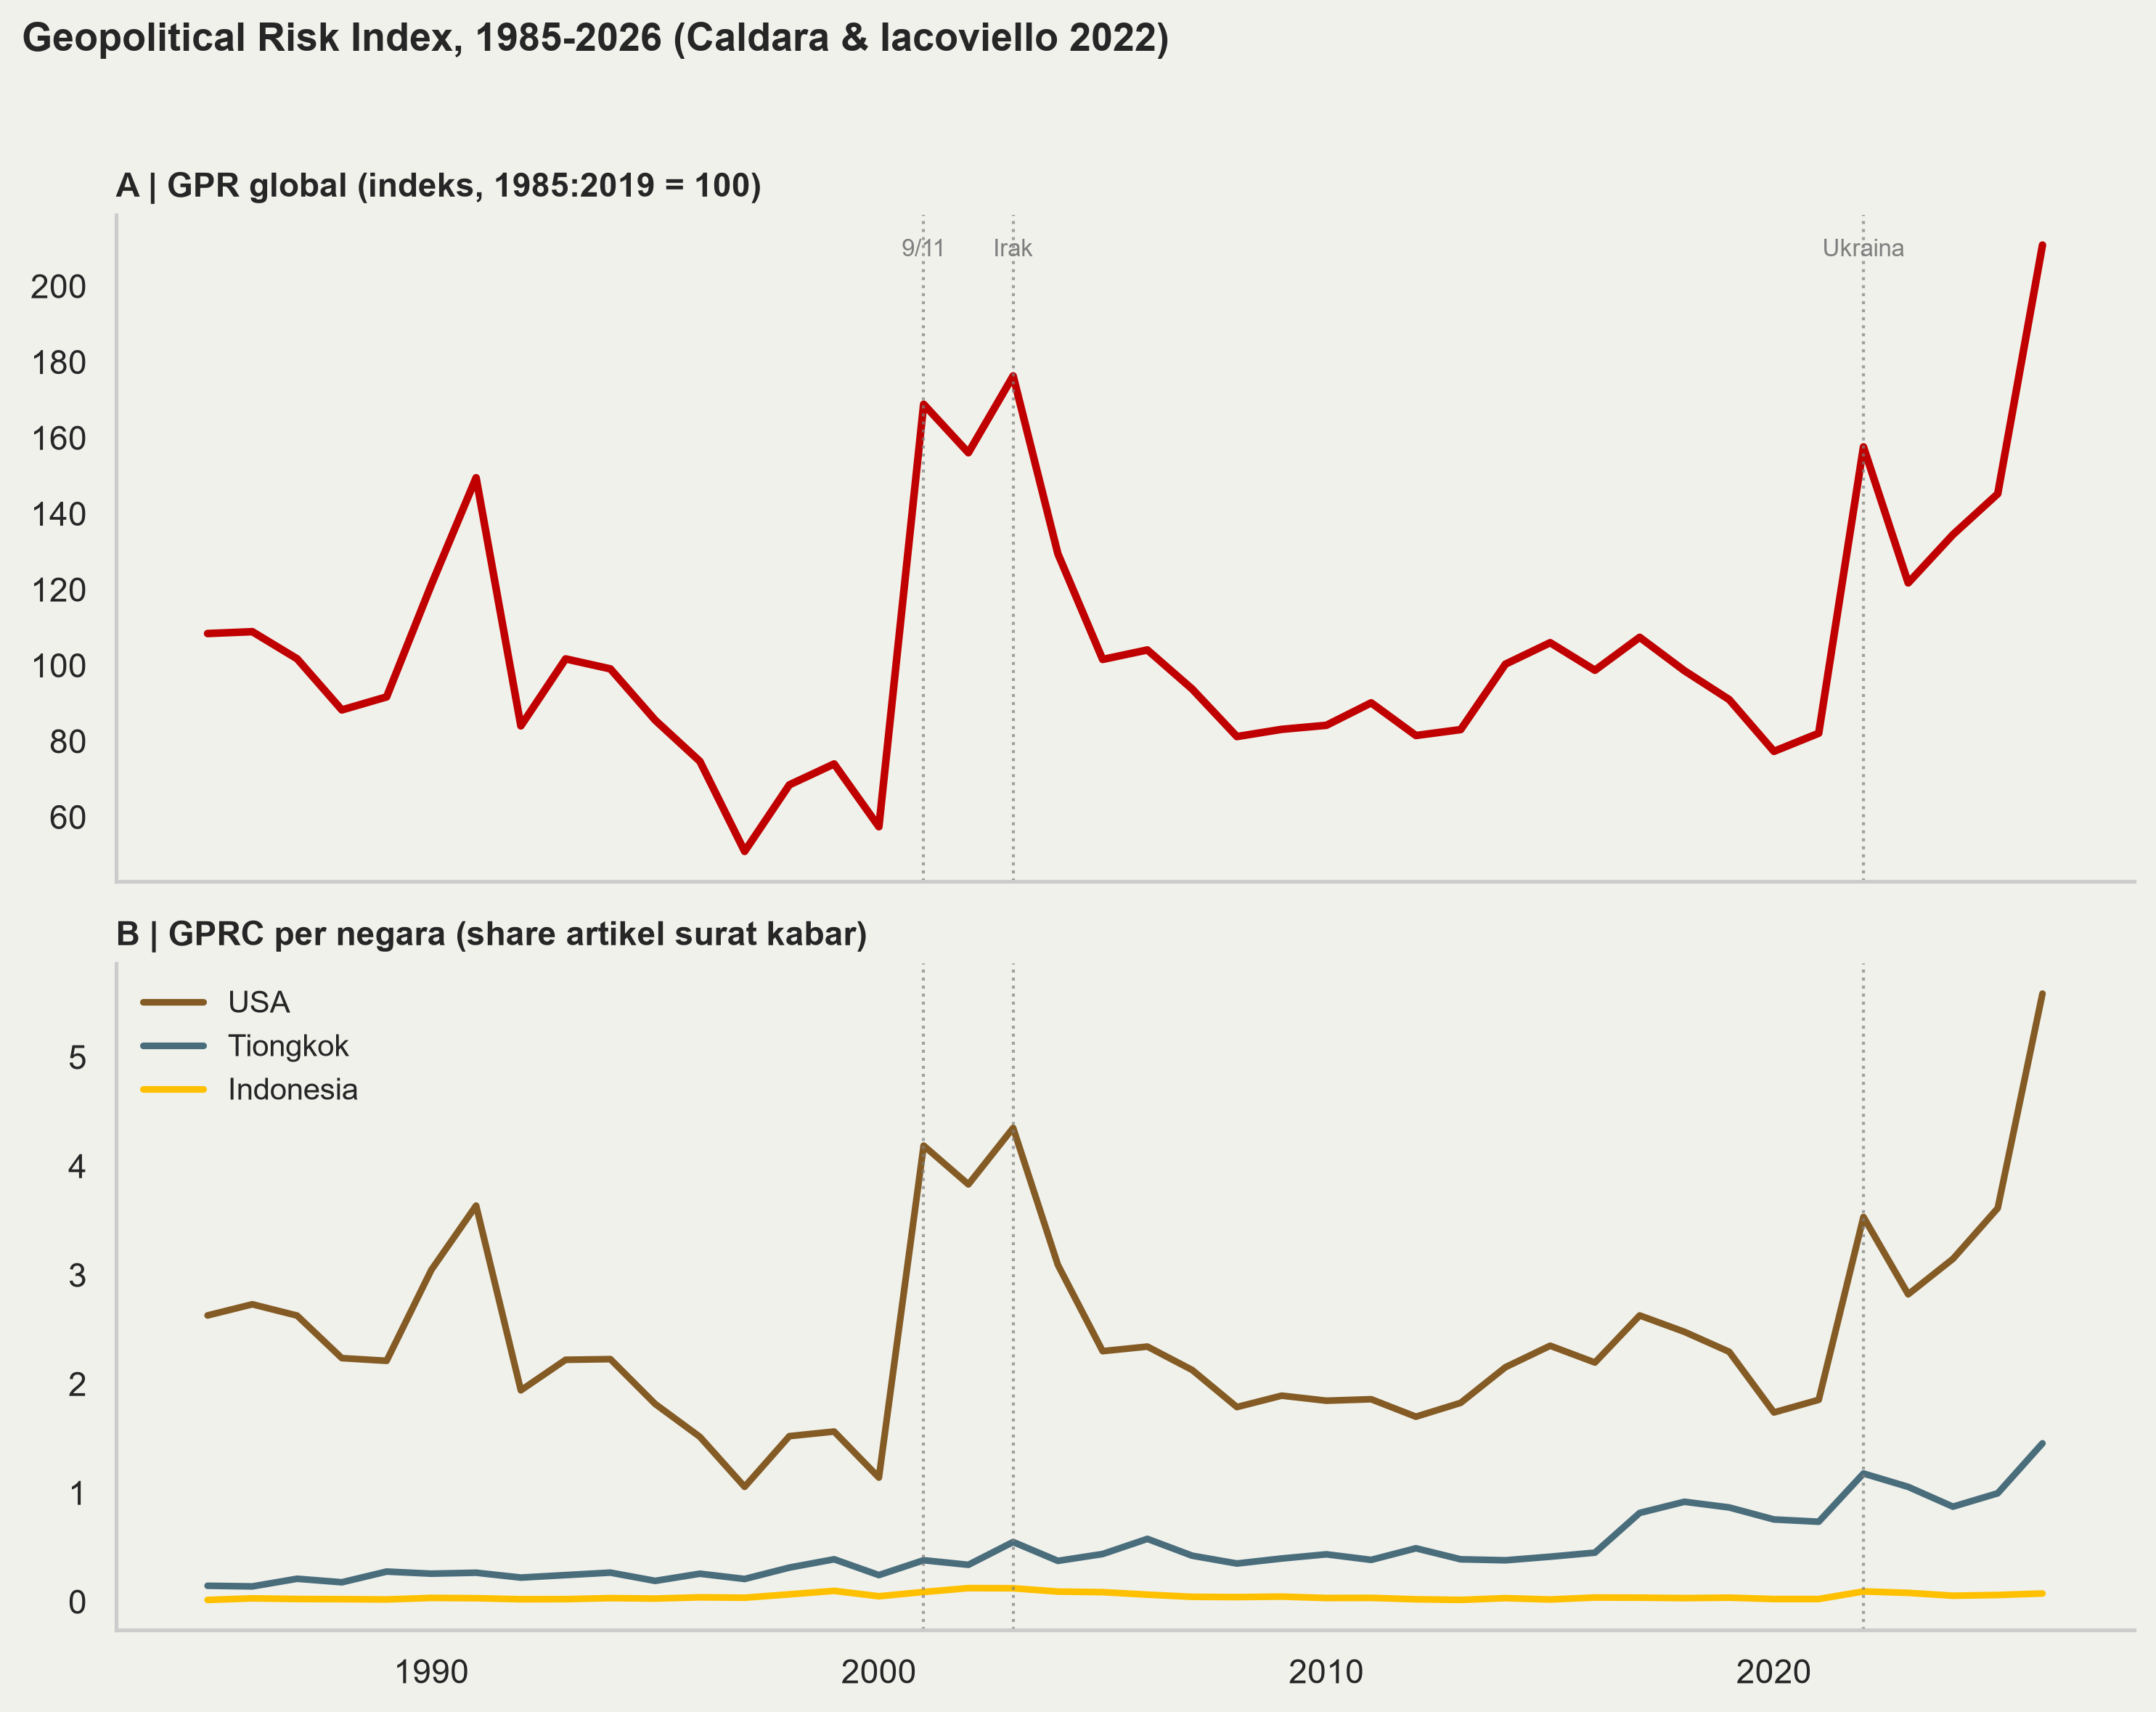
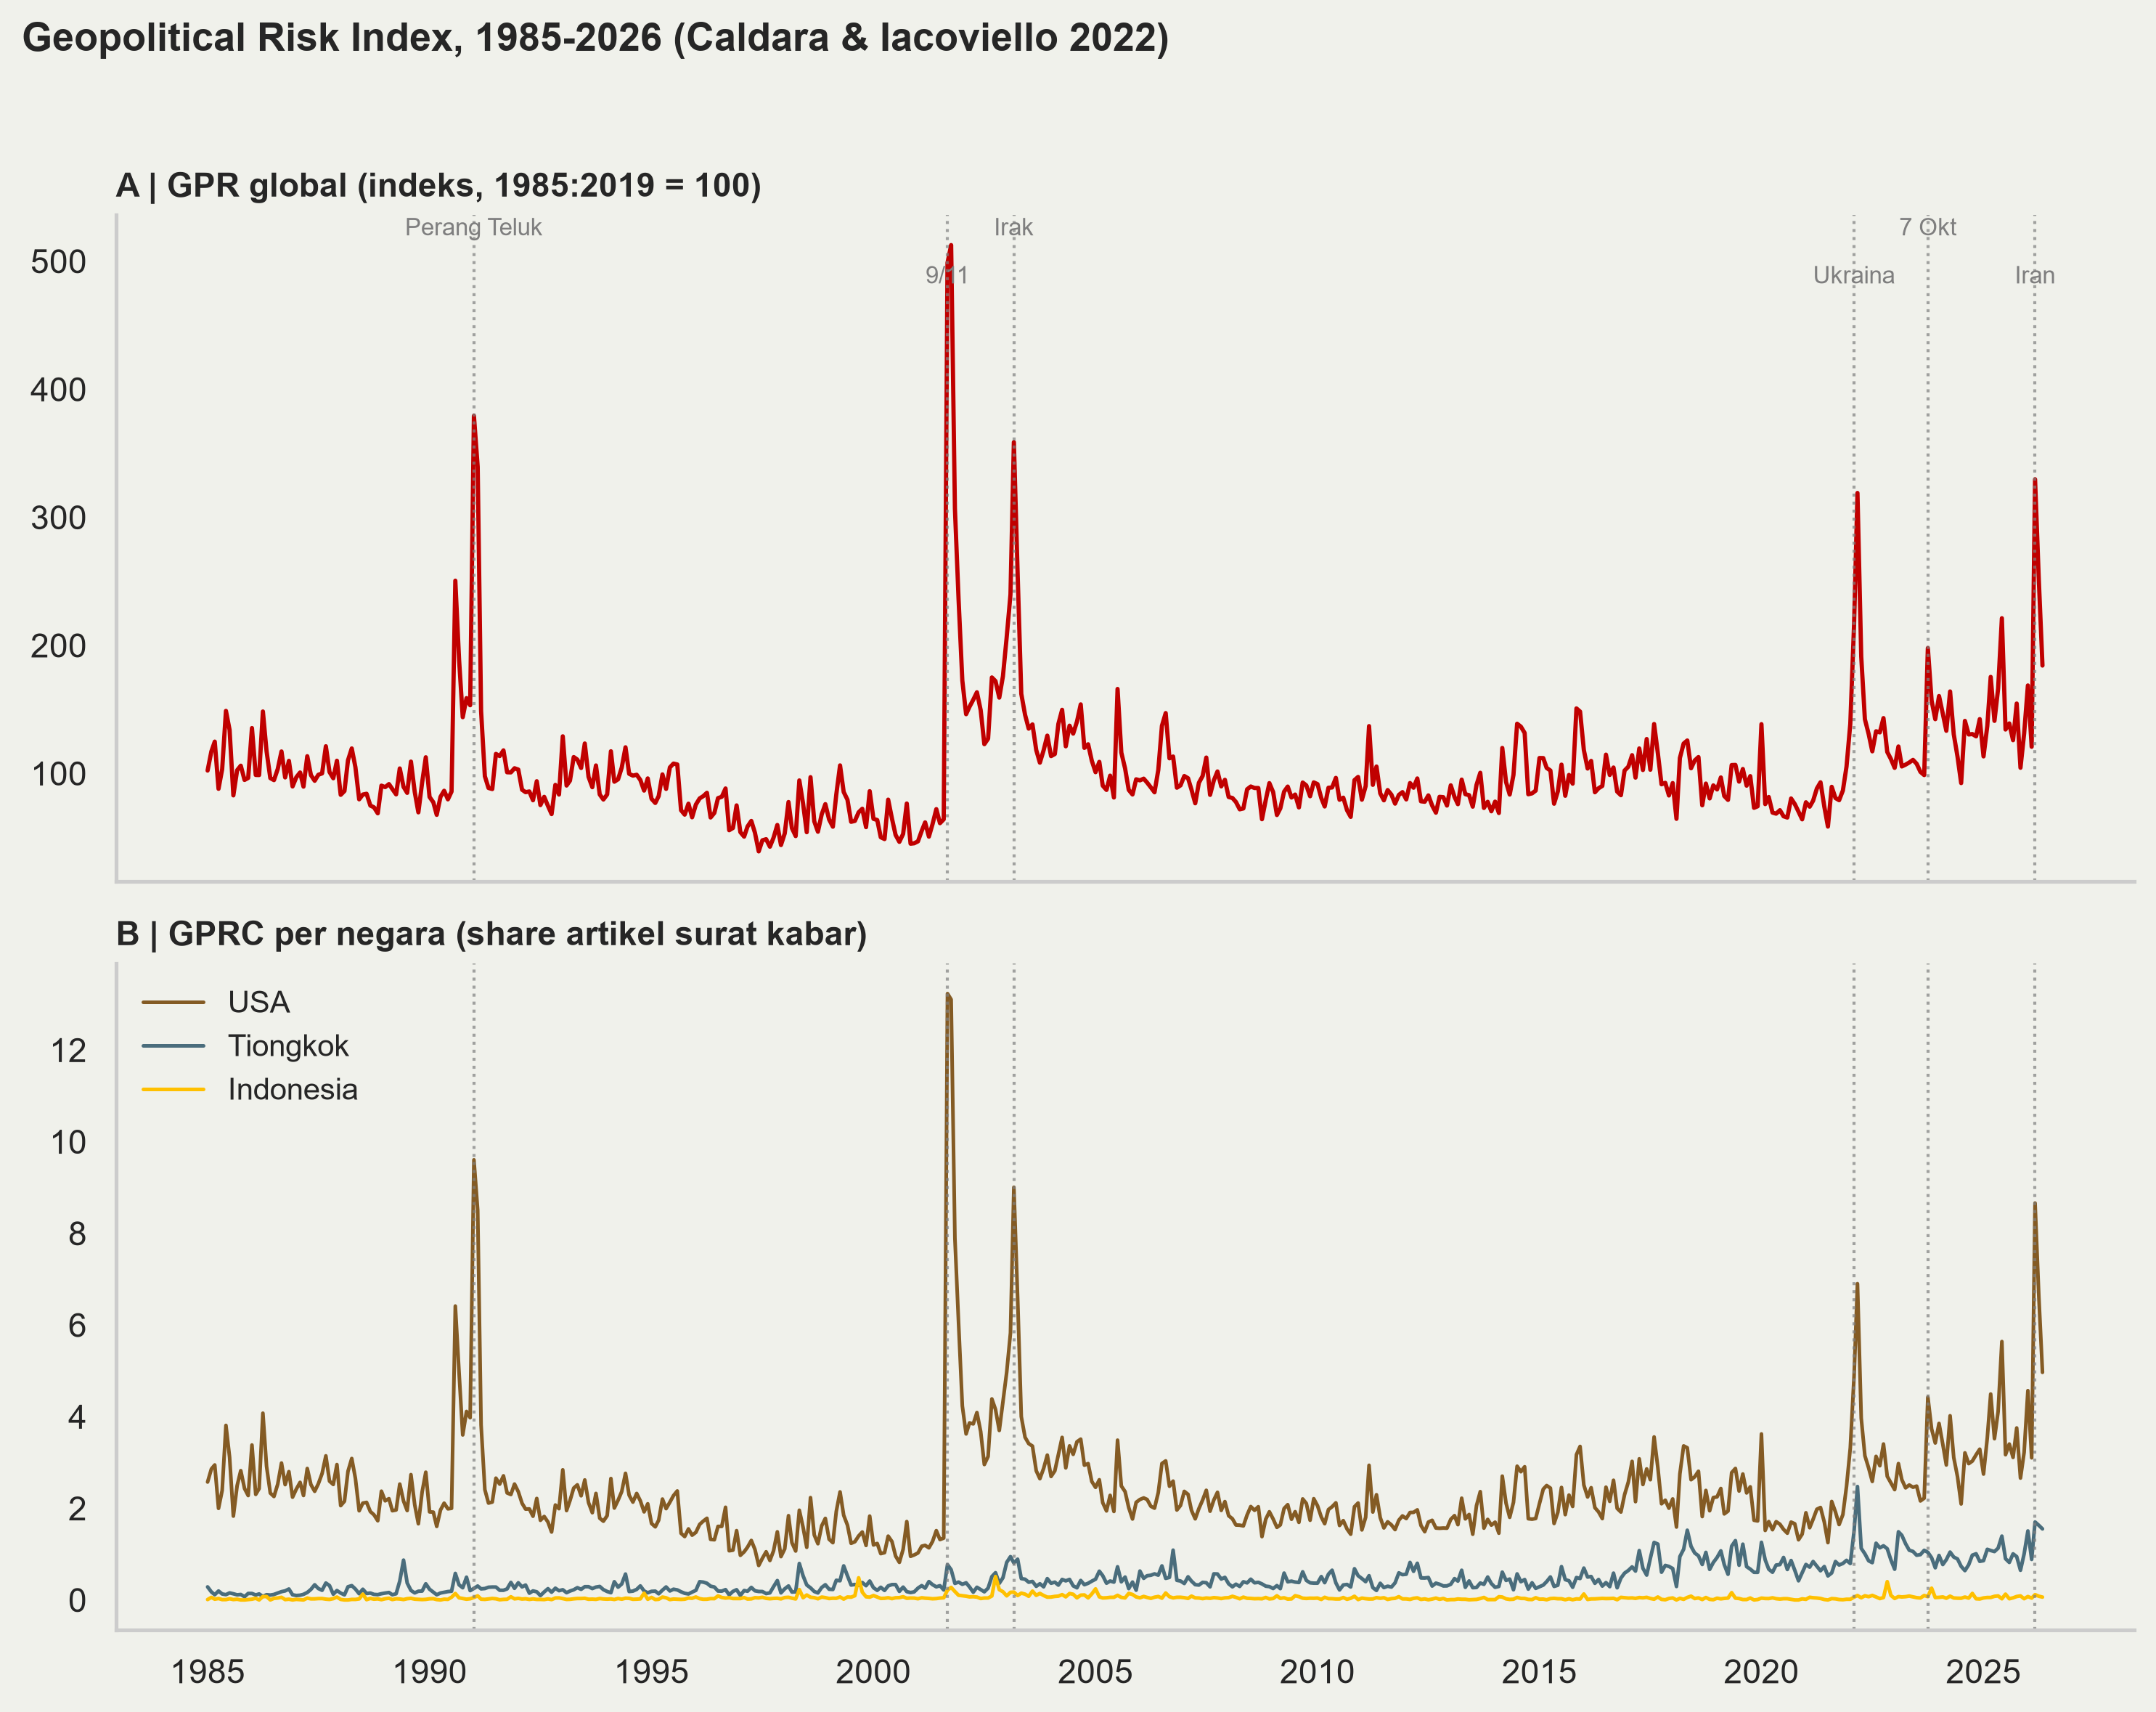
edit

diff --git a/code/01_gpr.py b/code/01_gpr.py
@@ -1,4 +1,4 @@
-"""Latihan 1 — Geopolitical Risk Index: global, USA, Tiongkok, Indonesia.
+"""Geopolitical Risk Index: global, USA, Tiongkok, Indonesia.
 
 Data: Caldara & Iacoviello (2022), "Measuring Geopolitical Risk", AER 112(4).
 Download: https://www.matteoiacoviello.com/gpr_files/data_gpr_export.xls
@@ -18,33 +18,38 @@ import pandas as pd
 import os
 import sys
 
-# Pakai fig-den lokal bila ada (repo: github.com/den-econ/fig-den);
-# bila path tidak ada, Python otomatis memakai versi hasil pip install.
-sys.path.insert(0, os.environ.get("FIG_DEN_PATH", r"C:\Users\imedk\fig-den"))
+# Pakai fig-den untuk DEN-style graph. matikan jika anda tidak mau pakai fig-den.
+# bisa didownload di github.com/den-econ/fig-den
 import fig_den as den
 
-ROOT = Path(__file__).resolve().parents[1]
-SLIDE_BG = "#f0f1eb"  # samakan dengan background slide (mytheme.scss)
+ROOT = Path(__file__).resolve().parents[1] # supaya root-nya ga perlu di-hard-coded
+SLIDE_BG = "#f0f1eb"  # samakan dengan background slide saya. matikan jika anda punya kosmetik sendiri
 
-raw = pd.read_excel(ROOT / "data" / "gpr_raw.xls", sheet_name="Sheet1")
-raw["year"] = raw["month"].dt.year
-annual = raw.groupby("year")[["GPR", "GPRC_USA", "GPRC_CHN", "GPRC_IDN"]].mean()
-annual = annual.dropna(subset=["GPR"])  # GPR & GPRC mulai 1985
+raw = pd.read_excel(ROOT / "data" / "gpr_raw.xls", sheet_name="Sheet1") # read data
+monthly = raw.set_index("month")[["GPR", "GPRC_USA", "GPRC_CHN", "GPRC_IDN"]]
+monthly = monthly.dropna(subset=["GPR"])  # GPR & GPRC mulai 1985
 
-EVENTS = {2001: "9/11", 2003: "Irak", 2022: "Ukraina"}
+# Bikin dictionary untuk event penting.
 
-den.style()
+EVENTS = {pd.Timestamp("1991-01-01"): "Perang Teluk",
+          pd.Timestamp("2001-09-01"): "9/11",
+          pd.Timestamp("2003-03-01"): "Irak",
+          pd.Timestamp("2022-02-01"): "Ukraina",
+          pd.Timestamp("2023-10-01"): "7 Okt",
+          pd.Timestamp("2026-03-01"): "Iran"}
+
+den.style()             # Menggunakan den-style figures. matikan jika anda punya style sendiri
 fig, (axA, axB) = den.subplots(2, 1, figsize=(10, 8), sharex=True)
 fig.patch.set_facecolor(SLIDE_BG)
 
-axA.plot(annual.index, annual["GPR"], color=den.RED, lw=2.5)
+axA.plot(monthly.index, monthly["GPR"], color=den.RED, lw=1.4)
 axA.set_title("A | GPR global (indeks, 1985:2019 = 100)",
               fontsize=11, fontweight="bold", loc="left")
 
 for col, lab, c in [("GPRC_USA", "USA", den.DARK_BROWN),
                     ("GPRC_CHN", "Tiongkok", den.SLATE_BLUE),
                     ("GPRC_IDN", "Indonesia", den.BRIGHT_GOLD)]:
-    axB.plot(annual.index, annual[col], color=c, lw=2.2, label=lab)
+    axB.plot(monthly.index, monthly[col], color=c, lw=1.2, label=lab)
 axB.set_title("B | GPRC per negara (share artikel surat kabar)",
               fontsize=11, fontweight="bold", loc="left")
 axB.legend(frameon=False, loc="upper left")
@@ -54,17 +59,18 @@ for ax in (axA, axB):
     for yr, lab in EVENTS.items():
         ax.axvline(yr, color=den.MEDIUM_GREY, ls=":", lw=1, alpha=0.7)
     ax.grid(False)
-for yr, lab in EVENTS.items():
-    axA.annotate(lab, (yr, axA.get_ylim()[1] * 0.95), fontsize=8,
-                 color=den.MEDIUM_GREY, ha="center")
+# selang-seling tinggi label agar event yang berdekatan tidak tumpang tindih
+for i, (dt, lab) in enumerate(EVENTS.items()):
+    axA.annotate(lab, (dt, axA.get_ylim()[1] * (0.97 if i % 2 == 0 else 0.90)),
+                 fontsize=8, color=den.MEDIUM_GREY, ha="center")
 
 fig.suptitle("Geopolitical Risk Index, 1985-2026 (Caldara & Iacoviello 2022)",
              fontsize=13, fontweight="bold", x=0.012, ha="left")
 fig.tight_layout(rect=[0, 0, 1, 0.96])
 den.save(fig, ROOT / "figures" / "gpr_4series.png")
 
-m10 = annual.loc[2010:2019].mean()
-m22 = annual.loc[2022:].mean()
+m10 = monthly.loc["2010":"2019"].mean()
+m22 = monthly.loc["2022":].mean()
 print("Rata-rata 2010-19 vs 2022-26:")
-for col in annual.columns:
+for col in monthly.columns:
     print(f"  {col:9s} {m10[col]:7.3f} -> {m22[col]:7.3f}  ({m22[col]/m10[col]:.2f}x)")

diff --git a/README.md b/README.md
@@ -1,7 +1,6 @@
 # Pengukuran Pengaruh Geopolitik terhadap Ekspor dan Impor Indonesia
 
-Materi *capacity building* FGD Analytical Notes 2026, Bank Indonesia (DPKL).
-Empat latihan hands-on menghitung indikator geoekonomi dari data publik:
+Repository ini mencoba menunjukkan bagaimana mencari dan menggunakan data-data terkait geoeconomics. In total ada 4 indikator:
 
 | # | Indikator | Skrip | Output |
 |---|---------|-------|--------|
@@ -10,13 +9,13 @@ Empat latihan hands-on menghitung indikator geoekonomi dari data publik:
 | 3 | GeoV & GeoC ekspor Indonesia dari nol | `code/03_geo_vc.py` | `figures/geo_vc_diy.png` |
 | 4 | HHI & Theil konsentrasi mitra dagang | `code/04_hhi_theil.py` | `figures/hhi_theil.png` |
 
-Slide: `sesi5.qmd` (Quarto reveal.js, tema DEN).
+Slide: `index.qmd` (Quarto reveal.js, tema DEN) yang dirender jadi `index.html`
 
 ## Struktur folder
 
 ```
-sesi5/
-  sesi5.qmd        # slide deck (quarto render sesi5.qmd)
+geoeconomics/
+  index.qmd        # slide deck (quarto render index.qmd)
   mytheme.scss     # tema reveal.js
   README.md
   code/            # empat skrip latihan, jalankan berurutan dari folder code/
@@ -26,15 +25,14 @@ sesi5/
 
 ## Setup
 
-1. Python (disarankan Anaconda) dengan `pandas`, `numpy`, `matplotlib`, `xlrd`
+Semuanya diplot dengan menggunakan `python` tapi tentu anda bisa juga menggunakan alat lain seperti Excel, R, ataupun Stata.
+Repo ini menggunakan Python (lebih spesifiknya Anaconda distribution) dengan `pandas`, `numpy`, `matplotlib`, `xlrd`
    (pembaca `.xls`): `pip install pandas numpy matplotlib xlrd`.
-2. Gaya figur DEN, [fig-den](https://github.com/den-econ/fig-den):
-   `pip install git+https://github.com/den-econ/fig-den` — atau clone lalu set
-   env var `FIG_DEN_PATH` ke folder clone-nya. (Skrip otomatis memakai path
-   lokal `C:\Users\imedk\fig-den` bila ada.)
-3. [Quarto](https://quarto.org) untuk me-render slide.
+
 
 ## Menjalankan
+
+Anda bisa jalankan satu persatu, tapi bisa juga langsung jalankan semua dengan command prompt. Nanti resultsnya masuk ke "figures".
 
 ```bash
 cd code
@@ -51,8 +49,7 @@ dan menyimpan satu PNG ke `figures/`.
 
 ## Data & sumber
 
-Semua data input **sudah disertakan** di `data/`; tabel berikut mencatat
-sumber resminya bila ingin memperbarui.
+Semua data input sudah disertakan di `data/`. Tabel berikut mencatat sumber resminya bila ingin memperbarui.
 
 | File | Isi | Sumber & cara download |
 |------|-----|------------------------|
@@ -61,13 +58,13 @@ sumber resminya bila ingin memperbarui.
 | `idn_bilateral_trade.csv` | Ekspor-impor bilateral Indonesia (TOTAL, USD), 2000–2024 | UN Comtrade, reporter 360, cmdCode TOTAL — ekstrak kecil teragregasi; refresh via paket `comtradeapicall` + env var `COMTRADE_API_KEY` |
 | `GeoVGeoC.tab` | Database GeoV/GeoC 188 ekonomi (validasi Latihan 3) | Aiyar & Ohnsorge (2024), NCAER WP 173, Harvard Dataverse <https://doi.org/10.7910/DVN/PGCQVD> |
 
-## Atribusi
+## Referensi
 
 - Caldara, D. & M. Iacoviello (2022). Measuring geopolitical risk. *AER* 112(4).
 - Bailey, M., A. Strezhnev & E. Voeten (2017). Estimating dynamic state
   preferences from United Nations voting data. *JCR* 61(2).
 - Aiyar, S. & F. Ohnsorge (2024). Geoeconomic fragmentation and "connector"
   countries. NCAER WP 173.
-- UN Comtrade (data perdagangan; ekstrak kecil untuk reproducibility).
+- UN Comtrade (data perdagangan; perbarui dengan mendownload dari sini atau sumber lain).
 
-Penulis: Krisna Gupta (Dewan Ekonomi Nasional) — [krisna.or.id](https://krisna.or.id).
+Penulis: Krisna Gupta  — [krisna.or.id](https://krisna.or.id).